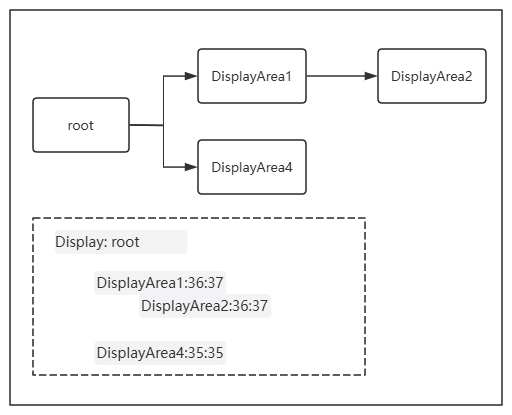
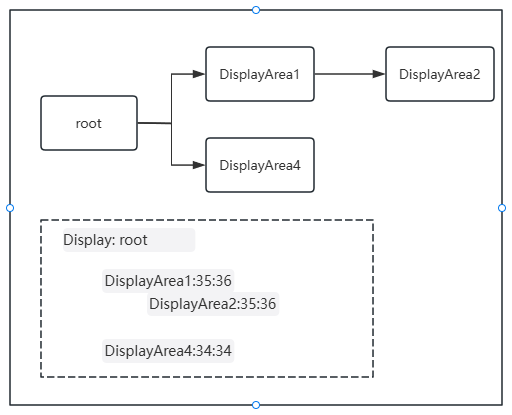
rsync

diff --git a/_posts/Android/framework/2025-02-08-Android-Graphic-Window.md b/_posts/Android/framework/2025-02-08-Android-Graphic-Window.md
@@ -61,25 +61,25 @@ Feature有别于我们说的“系统Feature”所表示的某个系统功能，
 
 ---|---|---
 layer|Feature1|Feature2
-37|DisplayArea1|DisplayArea3|
 36|DisplayArea1|DisplayArea3|
-35|DisplayArea2|DisplayArea3|
+35|DisplayArea1|DisplayArea3|
+34|DisplayArea2|DisplayArea3|
 
-但是，Feature2会受Feature1的约束，Feature1在35层不连续了，Feature2就不能继续使用DisplayArea3来管理window了，改成：
+但是，Feature2会受Feature1的约束，Feature1在34层不连续了，Feature2就不能继续使用DisplayArea3来管理window了，改成：
 
 ---|---|---
 layer|Feature1|Feature2
-37|DisplayArea1|DisplayArea3|
 36|DisplayArea1|DisplayArea3|
-35|DisplayArea2|DisplayArea4|
+35|DisplayArea1|DisplayArea3|
+34|DisplayArea2|DisplayArea4|
 
-DisplayArea2也可以不存在，表示Feature1不需要作用于第35层layer，得到：
+DisplayArea2也可以不存在，表示Feature1不需要作用于第34层layer，得到：
 
 ---|---|---
 layer|Feature1|Feature2
-37|DisplayArea1|DisplayArea3|
 36|DisplayArea1|DisplayArea3|
-35||DisplayArea4|
+35|DisplayArea1|DisplayArea3|
+34||DisplayArea4|
 
 最终得到这样的树状结构： 
 
